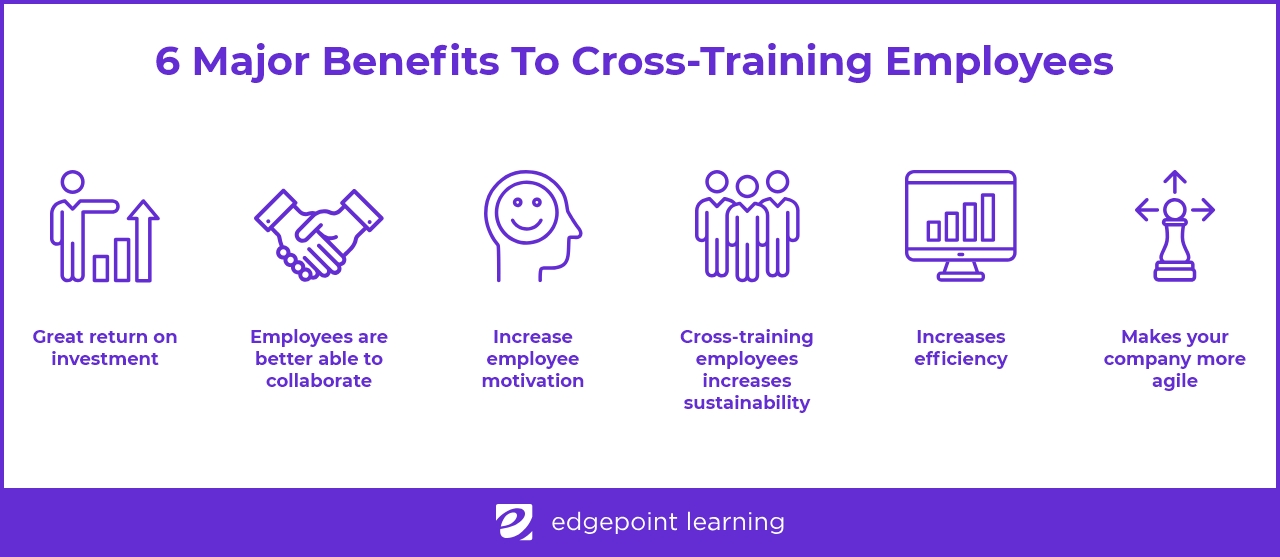
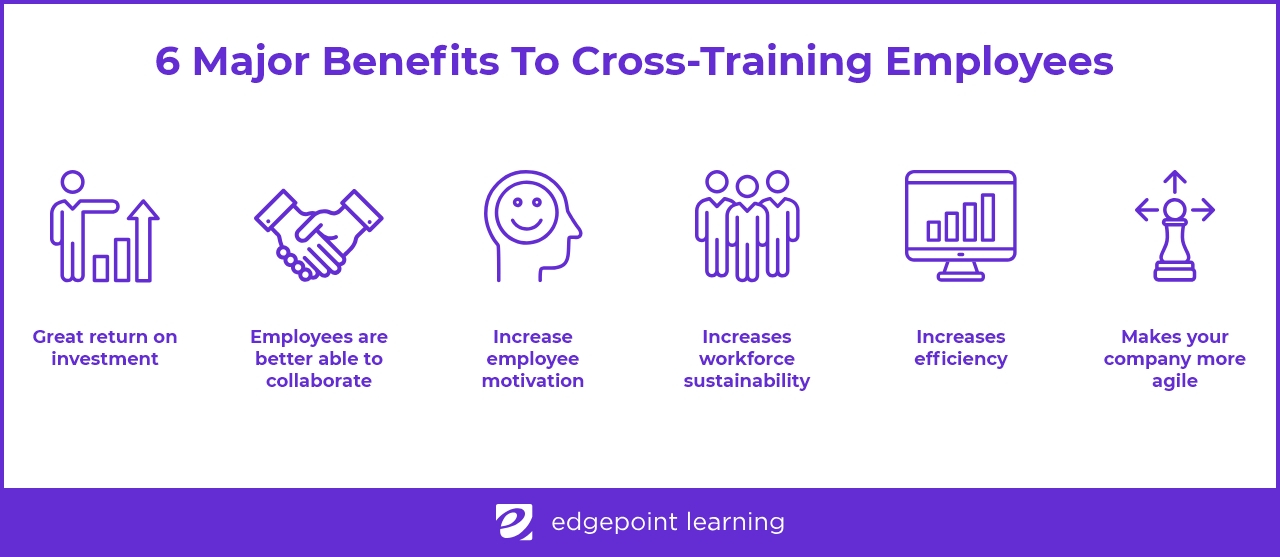
V5

Changed region(s): [[0.5312, 0.5799, 0.6562, 0.7325]]

diff --git a/collections/_posts/2018-12-05-cross-training-employees.md b/collections/_posts/2018-12-05-cross-training-employees.md
@@ -49,7 +49,7 @@ Nothing stops employee initiative faster than the perception of a dead-end job. 
 
 If employees know there are opportunities within the company for growth, their motivation to seek out those training opportunities (and the corresponding increase in pay) grows. More motivated employees will gravitate towards additional opportunities for career growth and mobility.
 
-### 4. Cross-training employees increases sustainability
+### 4. Increases workforce sustainability
 
 Imagine the three legs of a stool. If one leg falls off, the stool is useless. Now imagine a company in which only one employee knows anything about a process or a procedure. What happens if that person takes maternity leave or becomes ill and needs time off?
 
